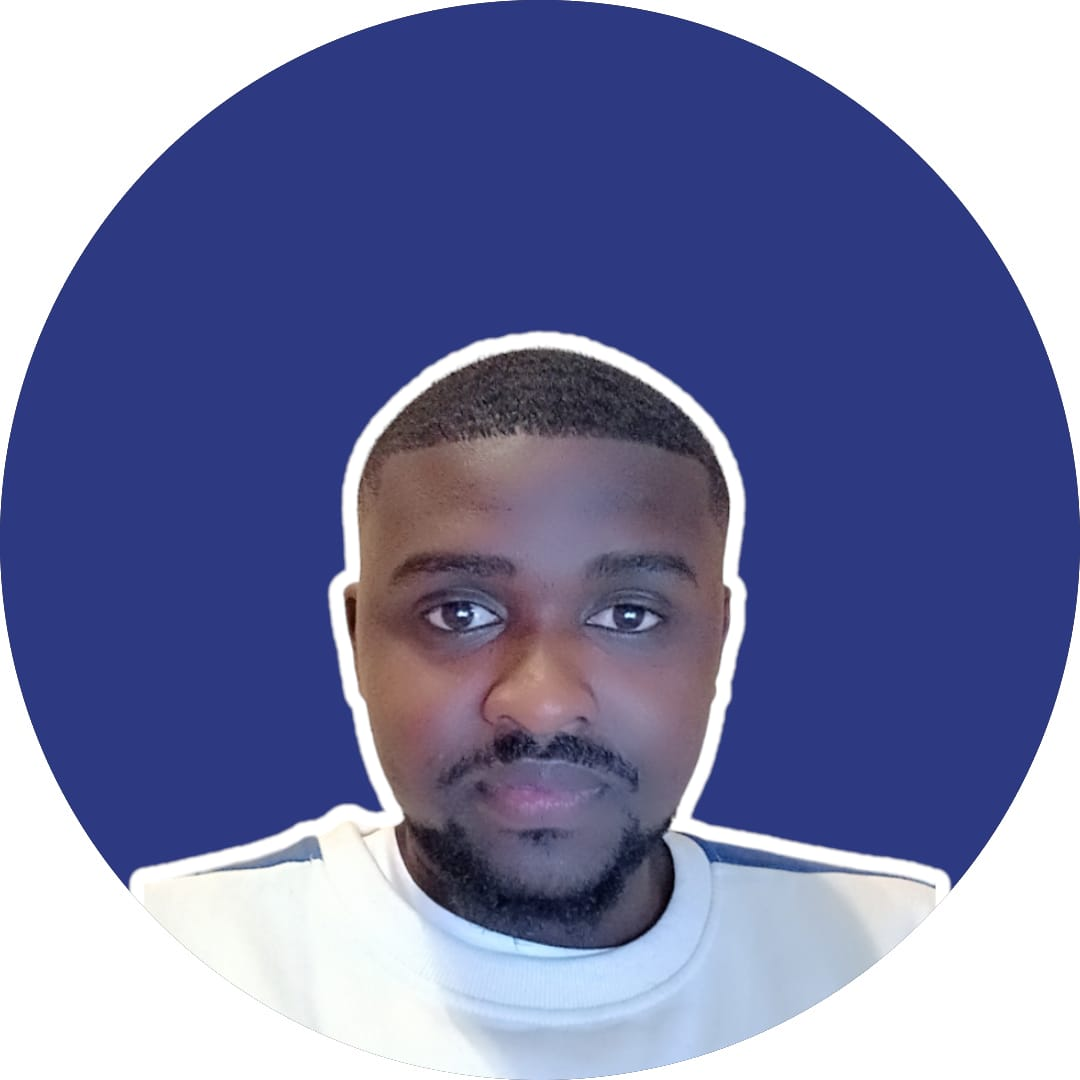
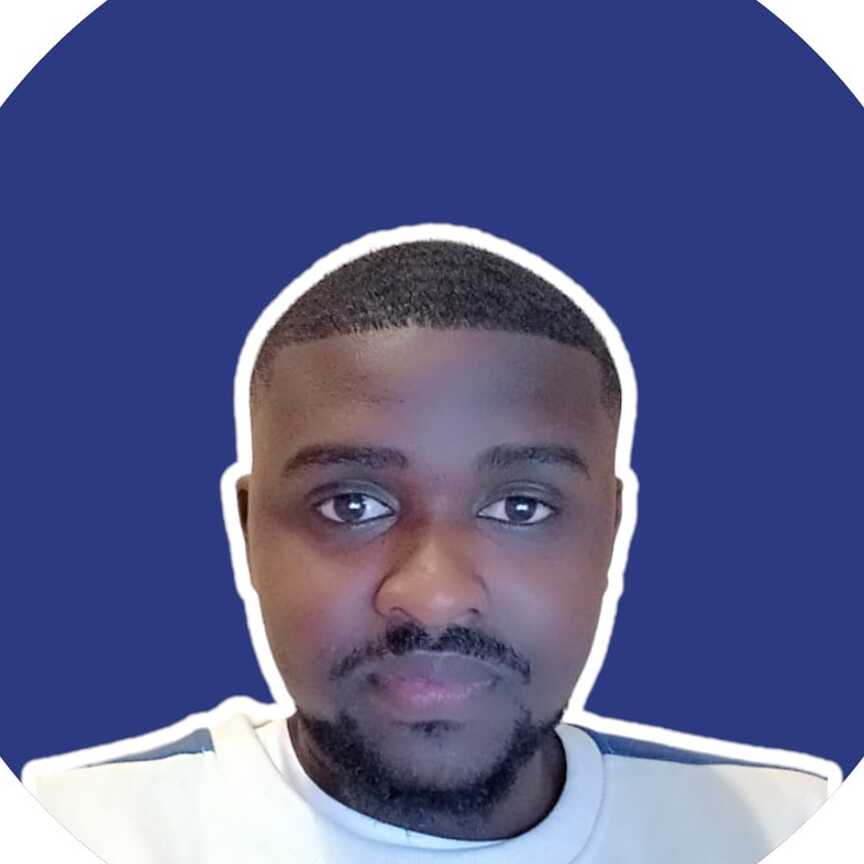
change image profile to fit. adjust button home . add css for description div in home page

diff --git a/src/DumbComponents/SideContentHouse.jsx b/src/DumbComponents/SideContentHouse.jsx
@@ -5,38 +5,45 @@ export default function SideContentHouse(){
 
     return(
     
-        <div className="Home-content">
-            <h4 className="mt-8 font-semibold text-white">Hello i am</h4>
-            <h1 className="mt-5 font-extrabold text-xl lg:text-5xl text-gray-100">Maleye Rane Ndoye</h1>
-            <div className="Home-content-img">
-                <div>
-                    
-                    <p className='w-full h-full text-white px-4 text-md font-bold '>
-                        I am web developper with extensive experience for over 3 years<br />
-                        My expertise is to create and website design, graphic design and many more ...
+        
+            <div className="Home-content">
+                    <div>
+                        <h1 className=" text-xl font-semibold text-gray-100  mt-10">Hello i am</h1>
+                        <h2 className=" font-extrabold text-2xl lg:text-3xl text-gray-100 ">Maleye Rane Ndoye</h2>
+                    </div>
 
-                    </p>
-                
-                </div>
-                <div className=' w-96 h-96 bg-gradient-to-r from-[#292448]  via-[#302b63]   to-[#171337] rounded-full flex flex-row items-center justify-center'>
-                     <img className="w-72 h-72 rounded-full" src={profile}/>
-                </div>
-                <div className=' flex flex-row space-x-7'>
-                    <button className=' w-32 h-10 rounded-2xl border-2 text-white text-lg font-semibold hover:scale-105'>see portfolio</button>
-                    <button className=' w-32 h-10 rounded-2xl border-2 text-white text-lg font-semibold hover:scale-105'>write me</button>
-                </div>
+                    <div className='w-full h-auto p-3 text-white font  font-light rounded border-2 m-0 mt-5 '>
+                      
+                            I am web developper with extensive experience 
+                            for over 3 years. My expertise is to create and website design, 
+                            graphic design and many more ...
+                      
+                    </div>
+
+                    <div className='w-full h-full m-0 flex flex-1 items-center justify-center'>
+                          <img className="w-72 h-72 rounded-full flex flex-row items-center" src={profile}/>
+                    </div>
+
+
+                    
+                    <div className='m-0 flex flex-row items-center justify-center space-x-7'>
+                        <button className=' w-32 h-10 m-0 rounded-2xl border-2 text-white text-lg font-semibold hover:scale-105'>see portfolio</button>
+                        <button className=' w-32 h-10 m-0 rounded-2xl border-2 text-white text-lg font-semibold hover:scale-105'>write me</button>
+                    </div>
+
+
+                    <div className="mt-12 flex flex-row items-center justify-center mb-5 space-x-24">
+                            <span className='text-white text-xl cursor-pointer hover:scale-125'><FaGithub/></span>
+                            <span className='text-white text-xl cursor-pointer hover:scale-125'><FaInstagram/></span>
+                            <span className='text-white text-xl cursor-pointer hover:scale-125'><FaLinkedin/></span>
+                    </div>
             </div>
 
 
 
             
-        </div>
+        
 
 
 )
 }
-{/* <div className="mt-12 flex flex-row space-x-24">
-            <span className='text-white text-xl cursor-pointer hover:text-cyan-200'><FaGithub/></span>
-            <span className='text-white text-xl cursor-pointer hover:text-cyan-200'><FaInstagram/></span>
-            <span className='text-white text-xl cursor-pointer hover:text-cyan-200'><FaLinkedin/></span>
-</div> */}

diff --git a/src/App.css b/src/App.css
@@ -137,6 +137,7 @@
      flex-col 
      items-center 
      space-y-6 
+
      p-4 
      font-semibold 
      truncate
@@ -168,32 +169,24 @@
 
 .Home-content{@apply
     w-full
-     flex 
-     flex-col 
-     flex-1 
-     rounded-r-md 
-     m-1 
-     bg-gradient-to-l 
-     from-[#0f0c29] 
-     via-[#302b63] 
-     to-[#24243e] 
-     items-center 
+    h-full
+    flex 
+    flex-col 
+    
+    rounded-r-md 
+    m-1
+    px-4
+    space-y-16
+    bg-gradient-to-l 
+    from-[#0f0c29] 
+    via-[#302b63] 
+    to-[#24243e] 
+     
      
 
 }
 
-.Home-content-img{@apply
-    w-full
-    h-full 
-    flex  
-    flex-col
-    items-center
-    justify-center
-    space-y-10
-    
-    lg:h-64 
-    lg:w-72 
-}
+
 
 
 
